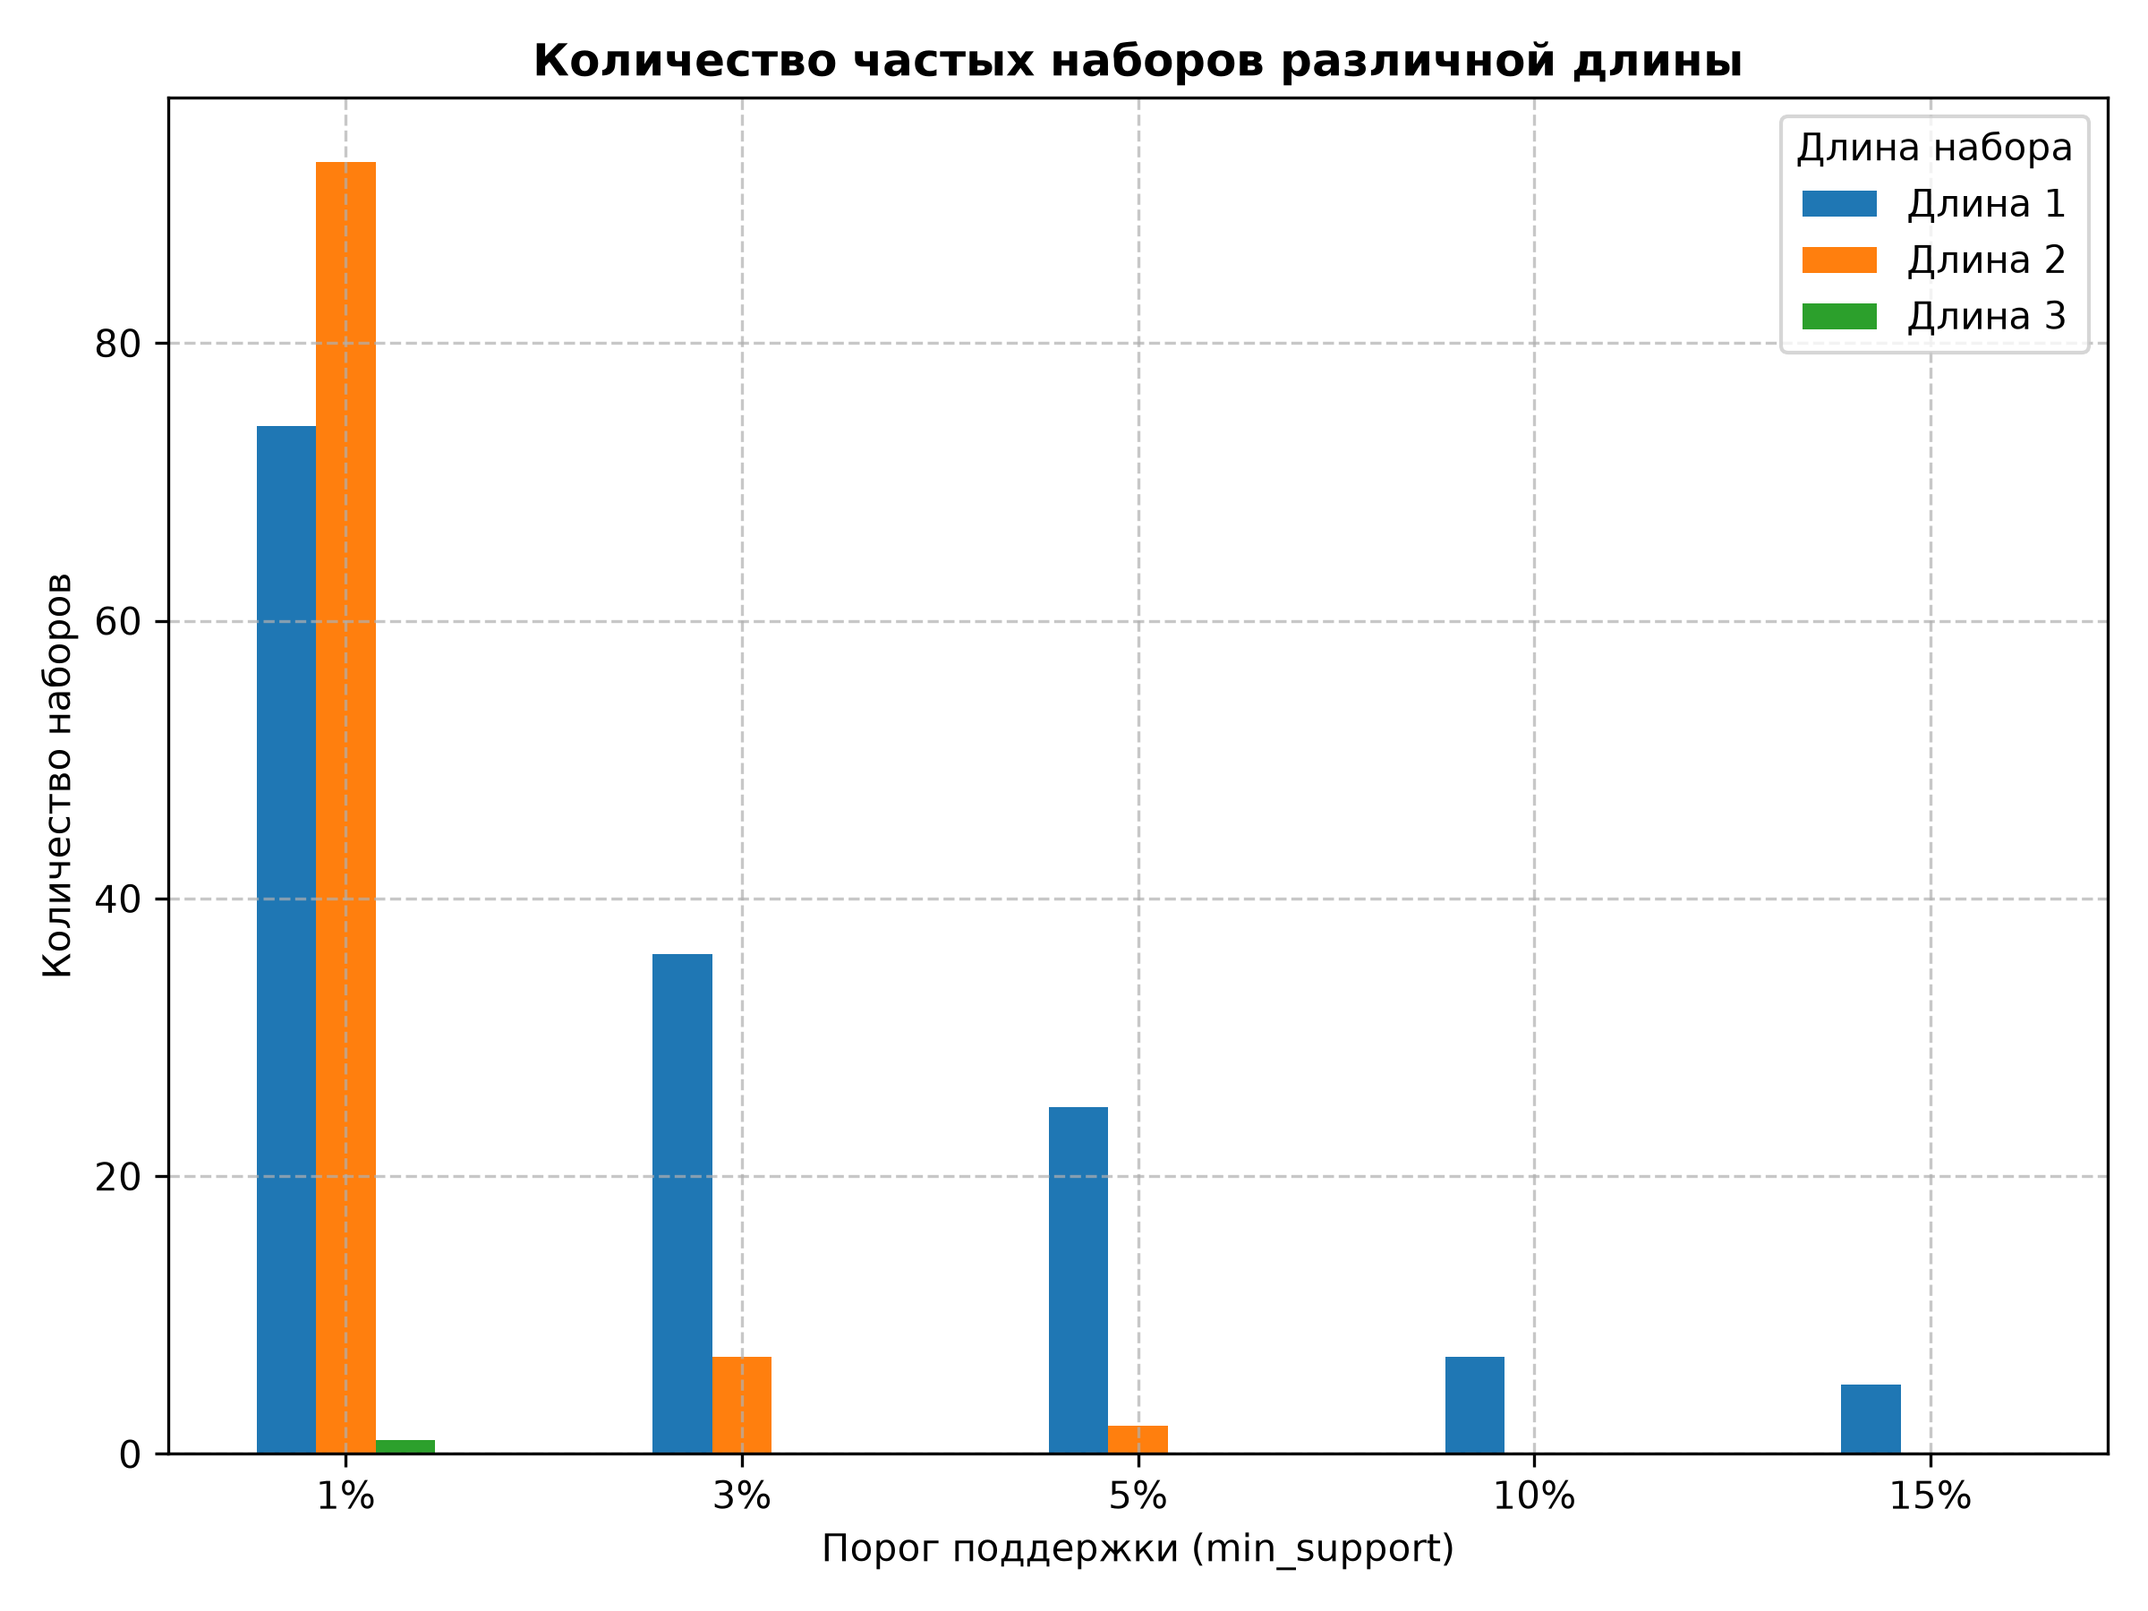
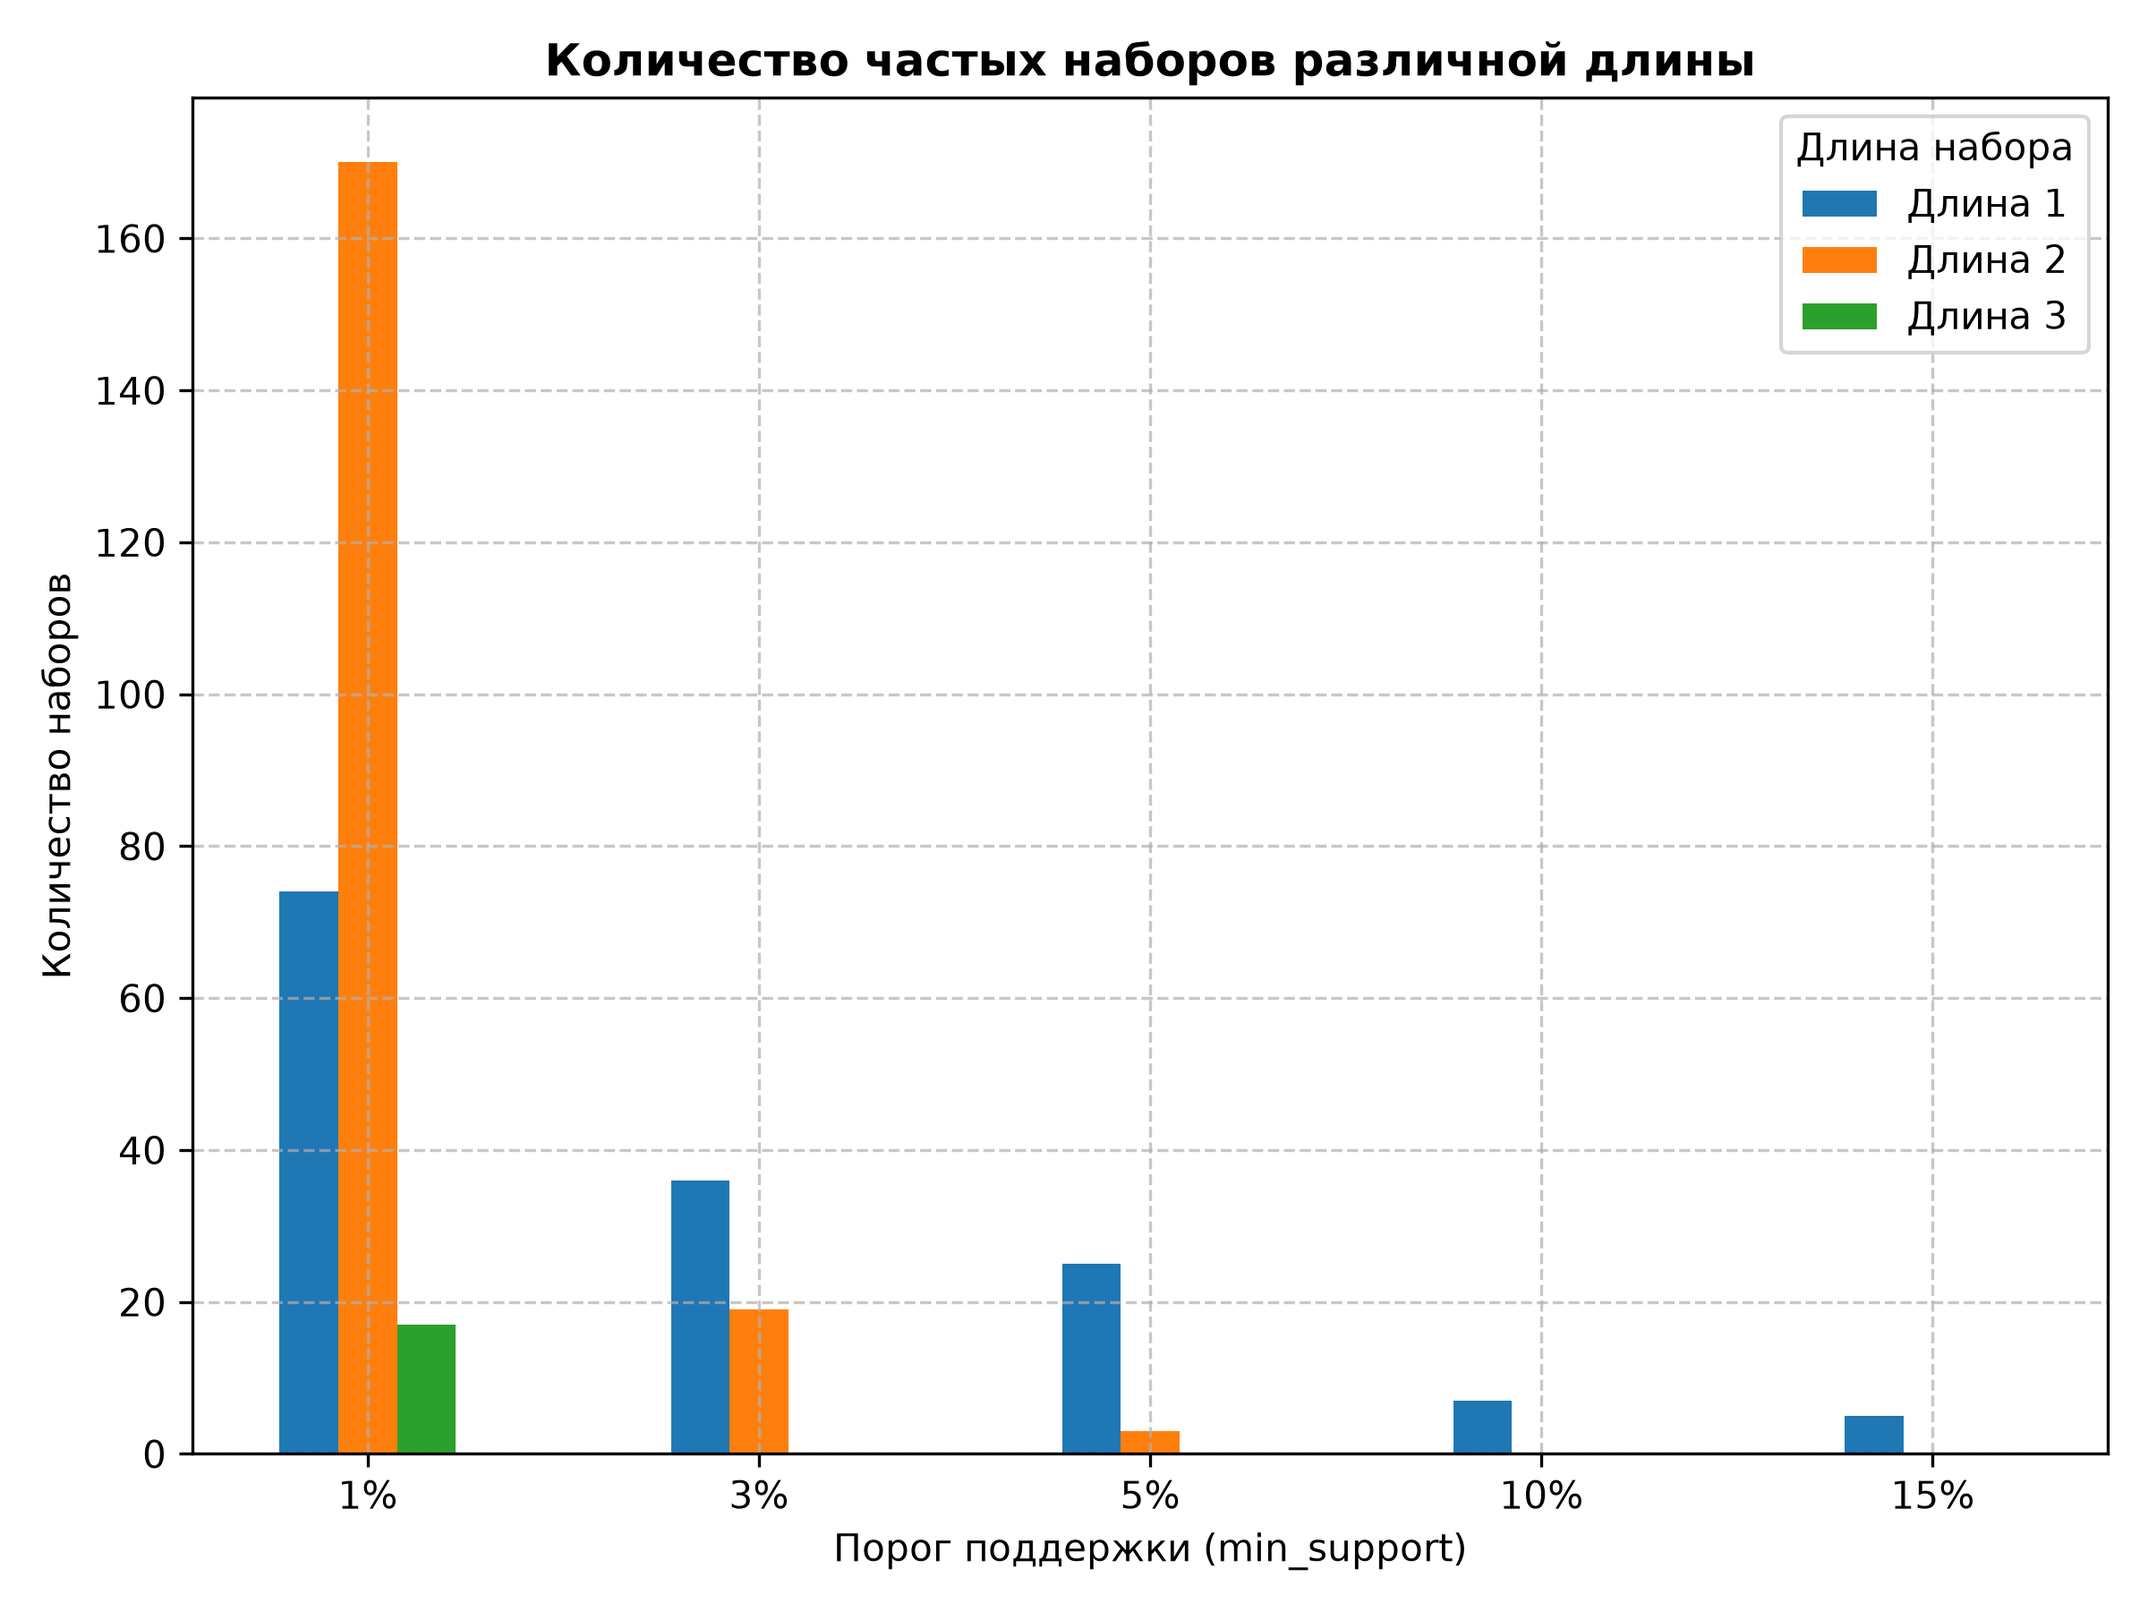
Добавлено формирование result,txt

diff --git a/Practice 1/lab1.py b/Practice 1/lab1.py
@@ -1,3 +1,11 @@
+"""
+Название файла: lab1.py
+Семантика файла: Программа предназначена для поиска частых наборов товаров
+в транзакционных данных с использованием алгоритма Apriori, проведения
+вычислительных экспериментов при различных порогах поддержки, сохранения результатов
+в текстовый файл и визуализации.
+"""
+
 import time
 import pandas as pd
 import matplotlib.pyplot as plt
@@ -6,16 +14,21 @@ import matplotlib.pyplot as plt
 
 file_path = "baskets.csv"
 
+
 def load_from_csv(file_path):
     """
-    Загрузка транзакций из CSV-файла с кодировкой Windows-1251,
-    где каждая строка представляет собой список товаров, разделенных запятыми.
+    Загружает транзакции из CSV-файла.
+
+    Входные параметры:
+        file_path (str): Путь к CSV-файлу с транзакциями.
+
+    Возвращаемое значение:
+        transactions (list): Список транзакций, где каждая транзакция представлена списком товаров (список списков).
     """
     df = pd.read_csv(file_path, header=None, encoding='cp1251')
 
     transactions = []
     for _, row in df.iterrows():
-        # Сбор всех непустых значений из всех колонок текущей строки в один список
         items = [str(val).strip() for val in row.dropna() if str(val).strip() and str(val).strip() != 'nan']
         if items:
             transactions.append(items)
@@ -26,6 +39,18 @@ def load_from_csv(file_path):
 # 2. Реализация алгоритма Apriori
 
 def apriori(transactions, min_support=0.05, sort_by='support_desc'):
+    """
+    Реализует алгоритм Apriori для поиска частых наборов товаров в транзакциях.
+
+    Входные параметры:
+        transactions (list of list): Список транзакций (список списков).
+        min_support (float): Порог минимальной поддержки (от 0.0 до 1.0).
+        sort_by (str): Критерий сортировки результатов ('support_desc' или 'lexicographic').
+
+    Возвращаемое значение:
+        results(list of tuple): Список найденных частых наборов, где каждый элемент содержит
+        множество товаров (set) и значение поддержки (float) (список кортежей).
+    """
     trans_sets = [set(t) for t in transactions]
     n_trans = len(trans_sets)
     if n_trans == 0:
@@ -45,8 +70,9 @@ def apriori(transactions, min_support=0.05, sort_by='support_desc'):
     L = [L1]
     k = 2
 
+    L1.sort(key=lambda x: x[0])
+
     while True:
-        # Извлечение списков элементов из предыдущего уровня L[k-2]
         prev_frequent = [itemset for itemset, count in L[k - 2]]
         candidates = []
 
@@ -56,7 +82,6 @@ def apriori(transactions, min_support=0.05, sort_by='support_desc'):
                 l1 = prev_frequent[i]
                 l2 = prev_frequent[j]
 
-                # Условие соединения: первые k-2 элементов равны
                 if l1[:k - 2] == l2[:k - 2] and l1[k - 2] < l2[k - 2]:
                     candidate = l1 + [l2[k - 2]]
 
@@ -75,7 +100,6 @@ def apriori(transactions, min_support=0.05, sort_by='support_desc'):
         if not candidates:
             break
 
-        # Подсчет поддержки кандидатов
         candidate_counts = {tuple(c): 0 for c in candidates}
         for t in trans_sets:
             for c_tuple in candidate_counts:
@@ -94,7 +118,6 @@ def apriori(transactions, min_support=0.05, sort_by='support_desc'):
         L.append(Lk)
         k += 1
 
-    # Сбор результатов
     results = []
     for level in L:
         for itemset, count in level:
@@ -110,49 +133,89 @@ def apriori(transactions, min_support=0.05, sort_by='support_desc'):
 
 # 3. Эксперименты и итоговые результаты
 
-def run_experiments(file_path, thresholds=[0.01, 0.03, 0.05, 0.10, 0.15]):
+def run_experiments(file_path, thresholds=None):
+    """
+    Запускает эксперименты алгоритма Apriori для различных порогов поддержки,
+    выводит статистику и сохраняет все найденные наборы в текстовый файл results.txt.
+
+    Входные параметры:
+        file_path (str): Путь к файлу с данными транзакций.
+        thresholds (list): Список порогов минимальной поддержки для тестирования.
+
+    Возвращаемое значение:
+        experiment_results (list of dict): Список словарей, содержащих метрики каждого
+        эксперимента (время, число наборов, максимальная длина и прочее).
+    """
+    if thresholds is None:
+        thresholds = [0.01, 0.03, 0.05, 0.10, 0.15]
+
     print(f"Загрузка данных из файла {file_path}...")
     transactions = load_from_csv(file_path)
     print(f"Всего транзакций загружено: {len(transactions)}\n")
 
     experiment_results = []
 
-    for thresh in thresholds:
-        print(f"Запуск эксперимента для min_support = {thresh * 100}%...")
-        start_time = time.time()
+    with open('results.txt', 'w', encoding='utf-8') as f:
+        f.write("=== РЕЗУЛЬТАТЫ ЭКСПЕРИМЕНТОВ АЛГОРИТМА APRIORI ===\n\n")
 
-        frequent_itemsets = apriori(transactions, min_support=thresh, sort_by='support_desc')
+        for thresh in thresholds:
+            print(f"Запуск эксперимента для min_support = {thresh * 100}%...")
+            start_time = time.time()
 
-        elapsed_time = time.time() - start_time
+            frequent_itemsets = apriori(transactions, min_support=thresh, sort_by='support_desc')
 
-        length_counts = {}
-        for itemset, sup in frequent_itemsets:
-            length = len(itemset)
-            length_counts[length] = length_counts.get(length, 0) + 1
+            elapsed_time = time.time() - start_time
 
-        max_length = max(length_counts.keys()) if length_counts else 0
+            length_counts = {}
+            for itemset, sup in frequent_itemsets:
+                length = len(itemset)
+                length_counts[length] = length_counts.get(length, 0) + 1
 
-        experiment_results.append({
-            'threshold': thresh,
-            'threshold_pct': f"{int(thresh * 100)}%",
-            'time_sec': elapsed_time,
-            'total_itemsets': len(frequent_itemsets),
-            'max_length': max_length,
-            'length_counts': length_counts,
-            'itemsets': frequent_itemsets
-        })
+            max_length = max(length_counts.keys()) if length_counts else 0
 
-        print(
-            f"  -> Найдено наборов: {len(frequent_itemsets)}, Макс. длина: {max_length}, Время: {elapsed_time:.4f} сек.")
+            experiment_results.append({
+                'threshold': thresh,
+                'threshold_pct': f"{int(thresh * 100)}%",
+                'time_sec': elapsed_time,
+                'total_itemsets': len(frequent_itemsets),
+                'max_length': max_length,
+                'length_counts': length_counts,
+                'itemsets': frequent_itemsets
+            })
 
+            f.write(f"Порог поддержки (min_support): {thresh * 100}%\n")
+            f.write(f"Время выполнения: {elapsed_time:.4f} сек.\n")
+            f.write(f"Всего найдено частых наборов: {len(frequent_itemsets)}\n")
+            f.write("Найденные наборы (набор товаров: поддержка):\n")
+
+            for itemset, support in frequent_itemsets:
+                items_str = ", ".join(itemset)
+                f.write(f"  {{{items_str}}} -> поддержка: {support:.4f} ({support * 100:.2f}%)\n")
+
+            f.write("-" * 50 + "\n\n")
+
+            print(
+                f"  -> Найдено наборов: {len(frequent_itemsets)}, Макс. длина: {max_length}, Время: {elapsed_time:.4f} сек.")
+
+    print("\nВсе результаты успешно сохранены в файл 'results.txt'.")
     return experiment_results
+
 
 # 4. Визуализация
 def visualize_results(experiment_results):
+    """
+    Визуализирует результаты экспериментов и сохраняет графики в файлы формата .png.
+
+    Входные параметры:
+        experiment_results (list of dict): Результаты экспериментов, полученные функцией run_experiments (список словарей).
+
+    Возвращаемое значение:
+        None (функция выводит графики на экран и сохраняет их на диск).
+    """
     thresholds_str = [res['threshold_pct'] for res in experiment_results]
     times = [res['time_sec'] for res in experiment_results]
 
-    # График 1: Быстродействие алгоритма
+    # График 1: Быстродействие алгоритма при изменяемом пороге поддержки
     plt.figure(figsize=(8, 6))
     plt.plot(thresholds_str, times, marker='o', color='b', linewidth=2, markersize=8)
     plt.title('Быстродействие алгоритма Apriori', fontsize=12, fontweight='bold')
@@ -169,7 +232,7 @@ def visualize_results(experiment_results):
     plt.show()
     print("График быстродействия сохранен в файл 'apriori_performance.png'.")
 
-    # График 2: Количество наборов разной длины
+    # График 2: Количество наборов разной длины при изменяемом пороге поддержки
     all_lengths = sorted(list(set(l for res in experiment_results for l in res['length_counts'].keys())))
 
     bar_data = {length: [] for length in all_lengths}
